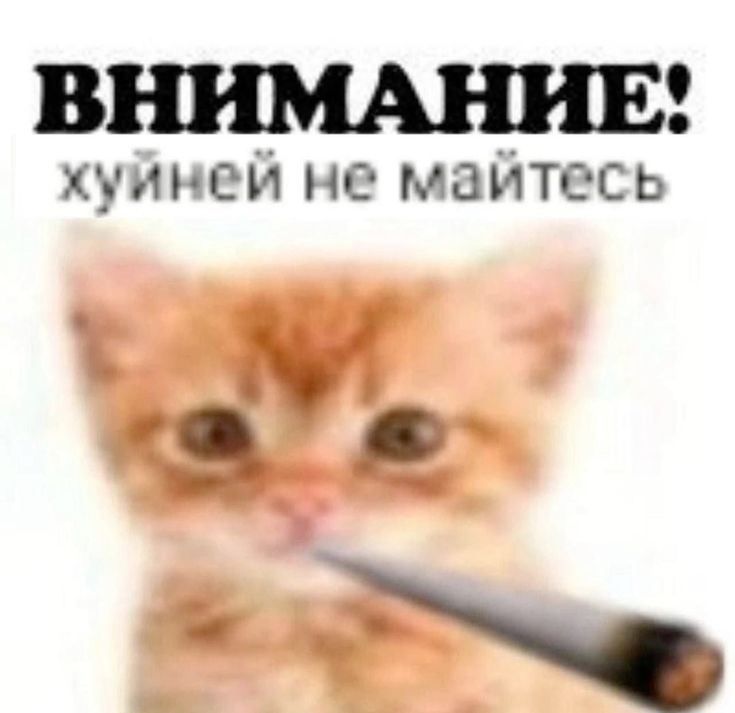
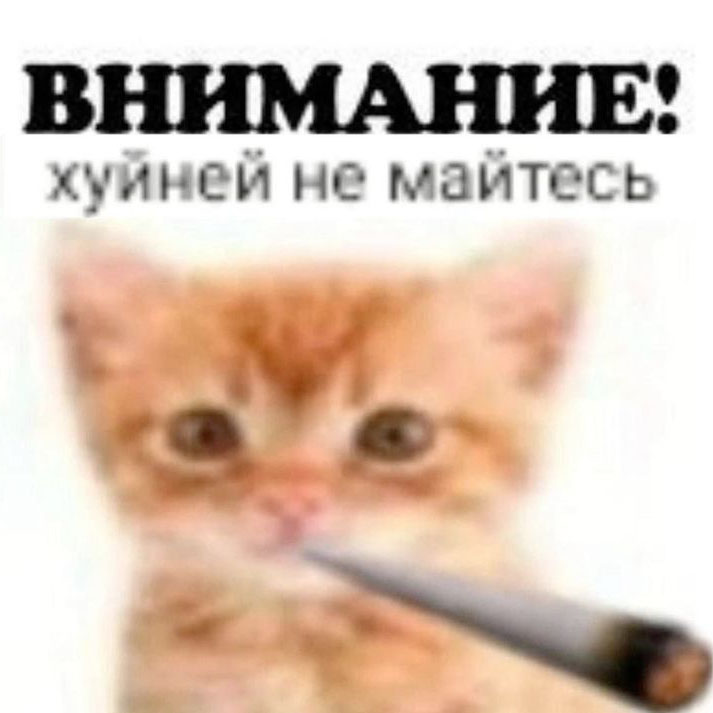
передаются данные от клиента к серверу, подрезаны картинки, все перекроено :)

diff --git a/server.py b/server.py
@@ -1,103 +1,88 @@
-from PyQt6.QtWidgets import QMainWindow, QApplication
+import socket
+import threading
+from PyQt6.QtWidgets import QMainWindow, QApplication, QPushButton
 from PyQt6.QtGui import QIcon
 from PyQt6.QtCore import QSize
 from PyQt6 import uic
 import random
-import socket
-import threading
-
-def server():
-    # Создаем сокет
-    serv_sock = socket.socket(socket.AF_INET, socket.SOCK_STREAM, proto=0)
-    serv_sock.bind(('', 53210))
-    serv_sock.listen(1)
-    current_user = 0
-
-    try:
-        while True:
-            # Бесконечно обрабатываем входящие подключения
-            client_sock, client_addr = serv_sock.accept()
-
-            print('client connected', client_addr)
-            # карточки ненадолго переворачиваются
-            while True:
-                match current_user:
-                    case 0:
-                        # Получаем сообщение от клиента
-                        data = client_sock.recv(1024)
-                        if not data:  # Клиент отключился
-                            break
-                        message1 = data.decode('utf-8')
-                        print(message1)
-
-                        data = client_sock.recv(1024)
-                        if not data:  # Клиент отключился
-                            break
-                        message2 = data.decode('utf-8')
-                        print(message2)
-                        # if message1.image != message2.image:
-                        #   current_user = 1
-
-                    case 1:
-                        # Отправляем сообщение клиенту
-                        response1 = input()
-                        client_sock.sendall(response1.encode('utf-8'))
-                        response2 = input()
-                        client_sock.sendall(response2.encode('utf-8'))
-                        # заблокировать все кнопки для нажатия, если неправильно
-                        # картинки открыть если правильно и продолжать отсылать
-                        # if response1.image != response2.image:
-                        #   current_user = 0
-
-            client_sock.close()
-
-    except (KeyboardInterrupt, SystemExit):
-        print('Прерывание программы.')
-
-    except Exception as e:
-        print(f'Произошла ошибка: {e}')
-
-
 
 class MainWindow(QMainWindow):
     def __init__(self, current_user):
         super().__init__()
-        # Загрузить пользовательский интерфейс главного окна из файла .ui
         uic.loadUi('MainWindow.ui', self)
         self.setWindowTitle("Мемо - игра для вас и ваших друзей")
         self.setWindowIcon(QIcon('pictures/icon.png'))
 
-        self.sock = socket.socket(socket.AF_INET, socket.SOCK_STREAM)  # создаем сокет
-        self.sock.bind(('', 55000))  # связываем сокет с портом, где он будет ожидать сообщения
-        self.sock.listen(1)  # указываем сколько может сокет принимать соединений
-        print('Server is running')
+        self.buttons_list = self.buttons.buttons()
+        self.current_user = current_user  # 0 - клиент, 1 - сервер
+        self.press_count = 0  # Количество нажатий
 
+        # Присваиваем кнопкам случайные картинки
         pictures = [f'pictures/{i + 1}.jpg' for i in range(15)]
+        self.buttons = self.buttons.buttons()
         random.shuffle(pictures)
-
-        new_buttons = self.buttons.buttons()
-        random.shuffle(new_buttons)
-        self.slots = {}
+        random.shuffle(self.buttons)
         for i in range(15):
             for k in range(2):
-                button = new_buttons[i * 2 + k]
+                button = self.buttons[i * 2 + k]
                 button.setIcon(QIcon('pictures/back.jpg'))
                 button.setText('')
-                button.setIconSize(QSize(button.width() - 6, button.height() - 6))
+                print(button.objectName(), pictures[i])
+                button.setIconSize(QSize(button.width() - 8, button.height() - 8))
                 button.setProperty('picture', pictures[i])
-                button.clicked.connect(self.button_clicked)
+                # button.clicked.connect(self.button_clicked)
+        self.enemys_turn.setStyleSheet("""QPushButton{
+                                    border: 5px solid #721;
+                                    border-style: outset;
+                                    background: rgb(180,50,40);
+                                    color: rgb(250,250,255);
+                                    }""")
 
-        #for button in self.buttons.buttons():
-        #    print(f"Button {button.objectName()} has picture {button.property('picture')}")
+        # Подключение к серверу
+        self.server_sock = socket.socket(socket.AF_INET, socket.SOCK_STREAM)
+        self.server_sock.bind(('', 53210))  # Укажите IP сервера, если нужно
+        self.server_sock.listen(1)
+        print('Server is running')
 
-    def button_clicked(self, current_user):
-        button = self.sender()
-        button.setIcon(QIcon(f"{button.property('picture')}"))
+        self.client_sock, self.client_addr = self.server_sock.accept()
+        print('Client connected', self.client_addr)
 
+        self.game_active = True  # Игра активна для клиента
+        threading.Thread(target=self.handle_client, daemon=True).start()
+
+    def handle_client(self):
+        try:
+            while True:
+                # Получаем информацию о нажатии кнопки от клиента
+                data = self.client_sock.recv(1024)
+                if not data:
+                    break
+                button_name = data.decode('utf-8')
+                button = self.findChild(QPushButton, button_name)
+                # Генерируем путь к изображению
+                picture_path = button.property('picture')
+
+                # Отправляем информацию клиенту для синхронного открытия
+                self.client_sock.sendall(picture_path.encode('utf-8'))
+
+                # Сервер также обновляет свою версию интерфейса
+                print(f"Button {button_name} pressed, displaying picture {picture_path}")
+                self.update_server_interface(button_name, picture_path)
+
+        except Exception as e:
+            print(f"An error occurred: {e}")
+        finally:
+            self.client_sock.close()  # Закрываем соединение
+
+    def update_server_interface(self, button_name, picture_path):
+        button = self.findChild(QPushButton, button_name)
+        button.setIcon(QIcon(picture_path))
 
 if __name__ == '__main__':
     import sys
     app = QApplication(sys.argv)
-    window = MainWindow(0)
+    window = MainWindow(0)  # 0 означает, что клиент ходит первым
     window.show()
     sys.exit(app.exec())
+
+

diff --git a/client.py b/client.py
@@ -1,136 +1,60 @@
 import socket
-import sys
-
-from PyQt6.QtWidgets import QApplication
-from UI import MainWindow
-def client():
-    # Создаем сокет
-    client_sock = socket.socket(socket.AF_INET, socket.SOCK_STREAM)
-    client_sock.connect(('10.193.146.41', 53210))
-    # ненадолго перевернуть картинки
-    current_user = 0
-
-    try:
-        while True:
-            match current_user:
-                case 0:
-                    # Запрашиваем ввод сообщения от пользователя
-                    message1 = input("1 фото: ")
-                    # Отправляем сообщение серверу
-                    client_sock.sendall(message1.encode('utf-8'))
-                    message2 = input("2 фото: ")
-                    client_sock.sendall(message2.encode('utf-8'))
-                    if message1.image != message2.image:
-                       current_user = 1
-
-                case 1:
-                    # Получаем ответ от сервера
-                    data = client_sock.recv(1024)
-                    response1 = data.decode('utf-8')
-                    print(response1)
-                    data = client_sock.recv(1024)
-                    response2 = data.decode('utf-8')
-                    print(response2)
-                    # if response1.image != response2.image:
-                    #   current_user = 0
-
-
-    except (KeyboardInterrupt, SystemExit):
-        print("Прерывание программы.")
-
-    except Exception as e:
-        print(f"Произошла ошибка: {e}")
-
-    finally:
-        client_sock.close()
-
-
-if __name__ == "__main__":
-    client()
-    app = QApplication(sys.argv)
-    window = MainWindow()
-    window.show()
-    sys.exit(app.exec())
-
-from PyQt6.QtWidgets import QMainWindow, QApplication
+import threading
+from PyQt6.QtWidgets import QMainWindow, QApplication, QPushButton
 from PyQt6.QtGui import QIcon
 from PyQt6.QtCore import QSize
 from PyQt6 import uic
 import random
-import socket
-import threading
 
 class MainWindow(QMainWindow):
     def __init__(self, current_user):
         super().__init__()
-        # Загрузить пользовательский интерфейс главного окна из файла .ui
         uic.loadUi('MainWindow.ui', self)
         self.setWindowTitle("Мемо - игра для вас и ваших друзей")
         self.setWindowIcon(QIcon('pictures/icon.png'))
 
+        # Подключение к серверу
         self.client_sock = socket.socket(socket.AF_INET, socket.SOCK_STREAM)
-        self.client_sock.connect(('10.193.146.41', 53210))
+        self.client_sock.connect(('127.0.0.1', 53210))  # Укажите IP сервера
 
-        for button in self.buttons.buttons():
+        self.buttons_list = self.buttons.buttons()
+        self.current_user = current_user  # 0 - клиент, 1 - сервер
+        self.press_count = 0  # Количество нажатий
+
+        for button in self.buttons_list:
             button.setIcon(QIcon('pictures/back.jpg'))
             button.setText('')
-            button.setIconSize(QSize(button.width() - 6, button.height() - 6))
+            button.setIconSize(QSize(button.width() - 8, button.height() - 8))
             button.clicked.connect(self.button_client_clicked)
 
-        self.current_user = current_user
-        self.press_count = 0
+        self.your_turn.setStyleSheet("""QPushButton{
+                                        border: 5px solid #375;
+                                        border-style: outset;
+                                        background: rgb(60,150,90);
+                                        color: rgb(250,250,255);
+                                        }""")
         self.game_active = True  # Игра активна для клиента
-        threading.Thread(target=self.listen_to_server, daemon=True).start()
+        #threading.Thread(target=self.listen_to_server, daemon=True).start()
 
-
-    def listen_to_server(self):
-        while True:
-            data = self.client_sock.recv(1024)
-            pic = data.decode('utf-8')
-            button, pic1 = pic.split()
-            print(pic1)
-            button.setIcon(f'{pic1}')
-
-            data = self.client_sock.recv(1024)
-            pic = data.decode('utf-8')
-            button, pic2 = pic.split()
-            print(pic)
-            button.setIcon(f'{pic2}')
-
-            if pic1 != pic2:
-                break
-            else:
-                continue
-                # прописать про смену цветов рамки и блокировку выигранных карт
-
-
-    def button_client_clicked(self, current_user):
-        if self.current_user == 0 and self.press_count < 2 and self.game_active:
-            # сюда тоже можно вставить бесконечный цикл, и вместо запуска от кнопки, просто запускать его с самого начала
+    def button_client_clicked(self):
+        if self.game_active:  # Если ход клиента и игра активна
             button = self.sender()
-            self.press_count += 1
 
-            button_name = button.objectName()
-            self.client_sock.sendall(button_name.encode('utf-8'))
+            # Отправляем информацию о кнопке на сервер
+            button_info = f"{button.objectName()}"
+            self.client_sock.sendall(button_info.encode('utf-8'))
+
+            # Получаем путь к изображению от сервера и отображаем его
             data = self.client_sock.recv(1024)
-            pic = data.decode('utf-8')
-            button.setIcon(QIcon(f'{pic}'))
-
-            if self.press_count == 2:
-                self.current_user = 0
-                self.game_active = False
-                self.press_count = 0
-
-                self.listen_to_server()
-
-
-
-
+            picture = data.decode('utf-8')
+            print(picture)
+            button.setIcon(QIcon(picture))
+            button.setIconSize(QSize(button.width() - 8, button.height() - 8))
 
 
 if __name__ == '__main__':
     import sys
     app = QApplication(sys.argv)
-    window = MainWindow(0)
+    window = MainWindow(0)  # 0 означает, что клиент ходит первым
     window.show()
     sys.exit(app.exec())
